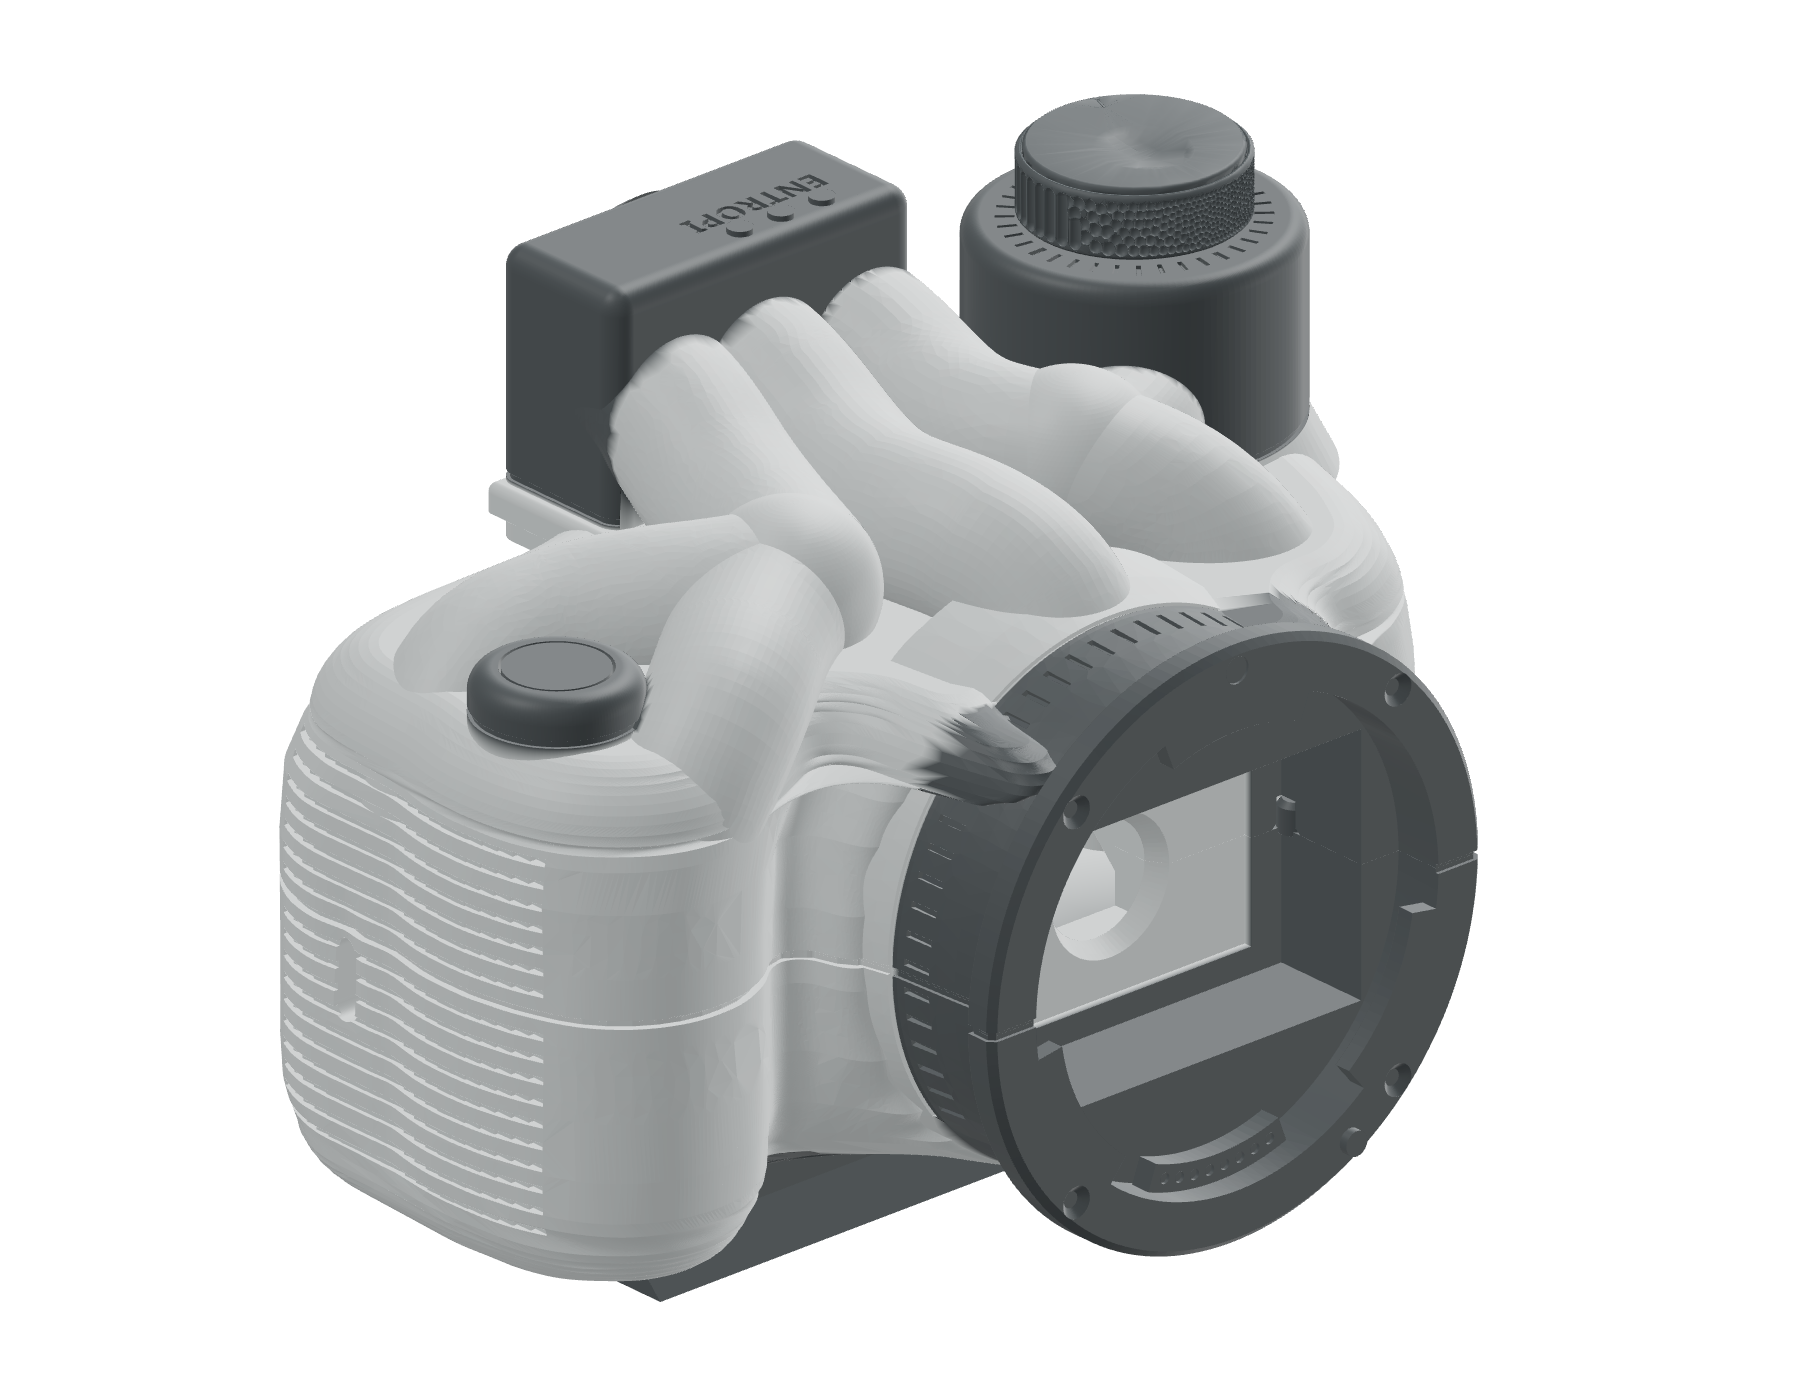
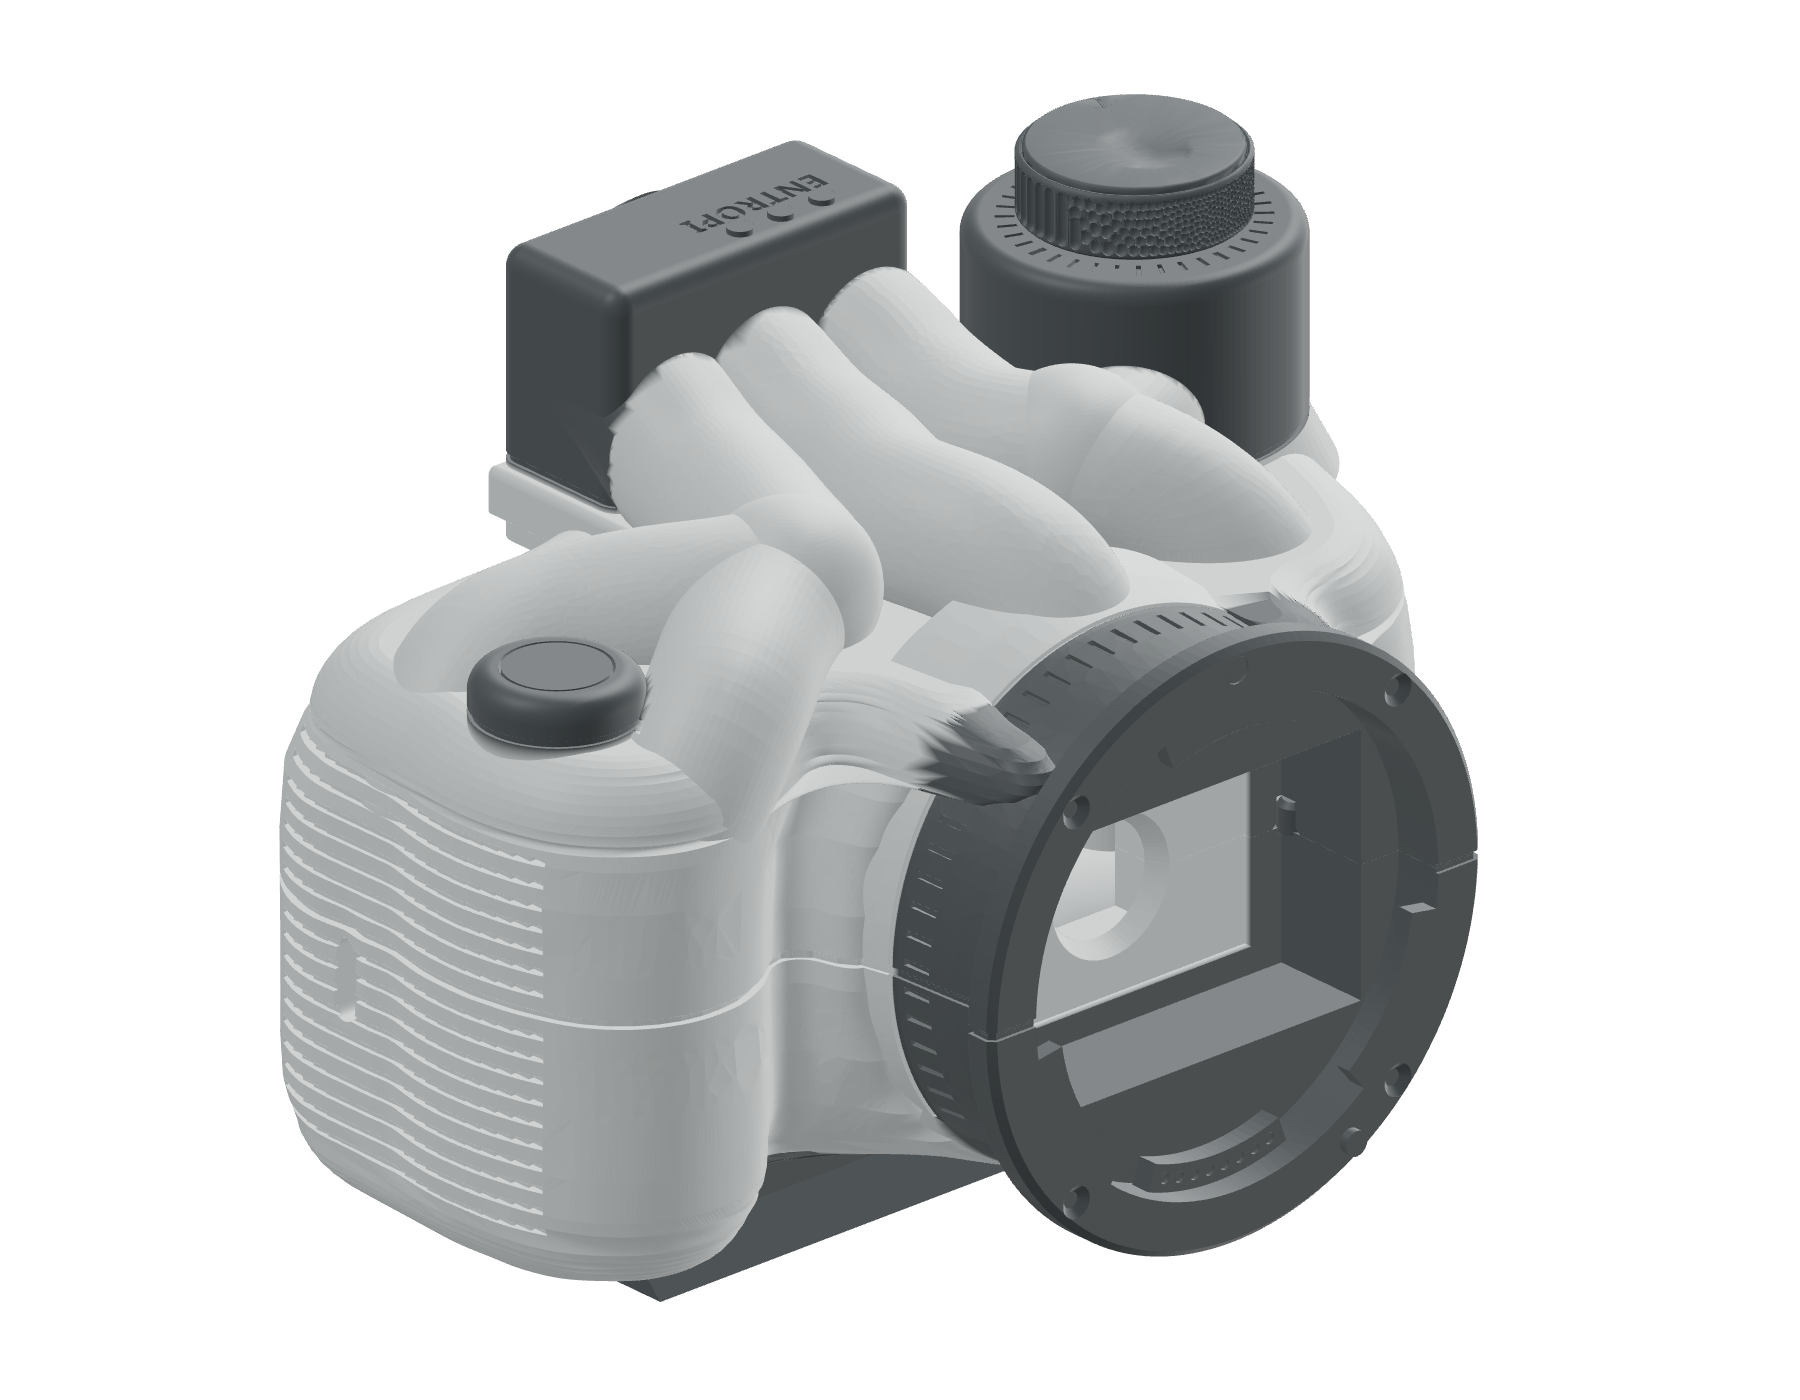
Entropi: kappa skoren 1 mm utanfor løpet (skuggefuge) i staden for flare som framleis gav fjørkant
Claude-Session: https://claude.ai/code/session_01CqCeoVvWhURPZvZKJ8S635

diff --git a/A4/Entropi-A3-print/verktoy/cad_form.py b/A4/Entropi-A3-print/verktoy/cad_form.py
@@ -46,7 +46,7 @@ def tonnekutt(punkt, z):
     """Tek bort tonneregionen (x >= 58 innanfor korda til linseløpet) frå eit fullt snitt."""
     from shapely.geometry import box as shbox
     ay, az = K["akse"]["y"], K["akse"]["z"]
-    R = 28.0 + 2.1 * min(max(z - 54.0, 0.0), 4.0) / 4.0
+    R = K["form"]["linse"].get("kappe_spalte_r", 30.6)
     w = np.sqrt(max(R**2 - (z - az) ** 2, 0.0))
     p = ShPolygon(punkt)
     if w > 0.5:
@@ -204,7 +204,7 @@ def knappboss():
 
 def bygg_form():
     import hashlib
-    nokkel = hashlib.sha1(("v7" + json.dumps(K["detalj"]["riller"]) + json.dumps(K["detalj"]["delingsfas"]) + json.dumps(F, sort_keys=True) + json.dumps(MAAL["kropp"]) + json.dumps(K["akse"]) + json.dumps(K["utloysar"])).encode()).hexdigest()[:12]
+    nokkel = hashlib.sha1(("v8" + json.dumps(K["detalj"]["riller"]) + json.dumps(K["detalj"]["delingsfas"]) + json.dumps(F, sort_keys=True) + json.dumps(MAAL["kropp"]) + json.dumps(K["akse"]) + json.dumps(K["utloysar"])).encode()).hexdigest()[:12]
     cache = HER.parent / "print" / "cad" / f"form_{nokkel}"
     if (cache / "union.brep").exists():
         delar = {p.stem: import_brep(p) for p in sorted(cache.glob("*.brep")) if p.stem != "union"}

diff --git a/A4/Entropi-A3-print/README.md b/A4/Entropi-A3-print/README.md
@@ -37,7 +37,7 @@ Slik sender du ei fil: opne `.gcode.3mf` i Bambu Studio, trykk *Print plate*, ve
 | Del | Solid |
 | --- | --- |
 | Kroppen med grepet | Ruled loft gjennom snitta, kvart snitt ein periodisk B-spline gjennom 140 punkt med fire faste ankerpunkt, og elleve innoverforskove snitt som rundar toppen av (r 8). Rillene i grepet og sporet langs delinga er skorne i dette loftet før samanføyinga |
-| Linseløpet | Omdreiingsflate av den målte profilen (r 31,5 → 28,6 frå x 58 til 86) som går mjukt frå kragen i kroppen og ut i EF-flensen. Kroppen er skoren vekk innanfor r 28 rundt linseaksen frå x 66, så løpet ligg utanpå kroppen; dei øvste 4 mm av kappa (z 54–58) er skorne med ein radius som veks til 30,1, så den runda toppen ikkje endar i ein fjørkant tangentielt på løpet, men i ei 0,6 mm skuggefuge langs løpet |
+| Linseløpet | Omdreiingsflate av den målte profilen (r 31,5 → 28,6 frå x 58 til 86) som går mjukt frå kragen i kroppen og ut i EF-flensen. Kroppen er skoren vekk innanfor r 28 rundt linseaksen frå x 66, så løpet ligg utanpå kroppen; kappa over z 50 er skoren innanfor r 30,6, éin millimeter utanfor løpet, så den runda toppen ikkje endar i ein fjørkant tangentielt på løpet, men i ei 1 mm skuggefuge rundt den øvre halvdelen av løpet |
 | EF-fatninga | Flens Ø66 (x 86,5–90) med 0,8 mm fas, hals Ø54 (x 84–90,5), tre bajonettklør r 23,8–27,3 over 42° (x 88–90), kontaktblokk nedst med åtte kontaktgroper, fire forsenkte skruehovud på r 30,5, utløysarpinne på r 30,3 og prikk på toppen. Bak halsen eit spegelkammer 44 × 30 mm (x 72–84) og ein sensorforsenking 36 × 24 mm. Utløysarknappen for objektivet er ein sylinder r 5 på sida av løpet |
 | Tubane | Seks sveip (r 8,5, hjularmen 7,5) langs splinar med bøyeradius minst 10 mm, kontrollert mot tuberadiusen så sveipa ikkje skjer seg sjølve. Frå søkarblokka går éin tube til ein kule-knoke (r 9,5) over grepet der grepsryggen og gripframen tek av, éin over toppen og ned på linseløpet, og éin ut mot hjulsida og ned bak løpet med ein knoke der armen frå hjulbossen kjem inn. Kvar tube endar inne i ein knoke, blokka, løpet eller kroppen, så ingen endeflater er synlege |
 | Søkarblokka | Boks 18 × 40,5 × 32 mm med fillet 2,5 mm, på ein plint (x 0–24, 1,5 mm breiare enn blokka, z 55–60) som tek overgangen til kroppen og som dei tre tubane går ut frå, så tubebotnane ligg inne i materiale heile vegen |
